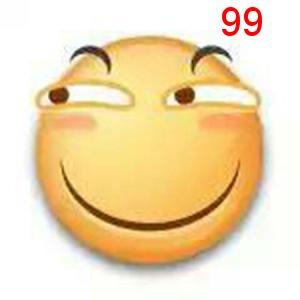
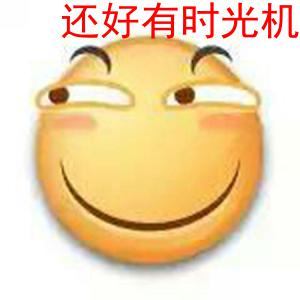
function unicode to help solve probelems with Chinese characters

Changed region(s): [[0.21, 0.0, 1.0, 0.15]]

diff --git a/code/py00/image.py b/code/py00/image.py
@@ -1,14 +1,24 @@
+# coding:utf-8
+"""this script add some text to a picture"""
+
 from PIL import Image, ImageDraw, ImageFont
 
 def add_num(img):
-	draw = ImageDraw.Draw(img)
-	myfont = ImageFont.truetype('arial.ttf', size = 40)
-	fillcolor = '#ff0000'
-	width, height = img.size
-	draw.text((width - 40 * 2, 0), '99', font = myfont, fill = fillcolor)
-	img.save('result.jpg', 'jpeg')
-	return 0
+    """add text to a picture
+
+    Args:
+    img: a picture
+
+    """
+    draw = ImageDraw.Draw(img)
+    myfont = ImageFont.truetype('C:/windows/fonts/simhei.ttf', size=40)
+    fillcolor = "#ff0000"
+    width, height = img.size
+    draw.text((width - 40 * 6, 0), unicode('还好有时光机', 'utf-8'), font=myfont, fill=fillcolor)
+    img.save('result.jpg', 'jpeg')
+    img.show()
+    return 0
 
 if __name__ == '__main__':
-	image = Image.open('huaji.jpg')
-	add_num(image)
+    IMAGE = Image.open('huaji.jpg')
+    add_num(IMAGE)
